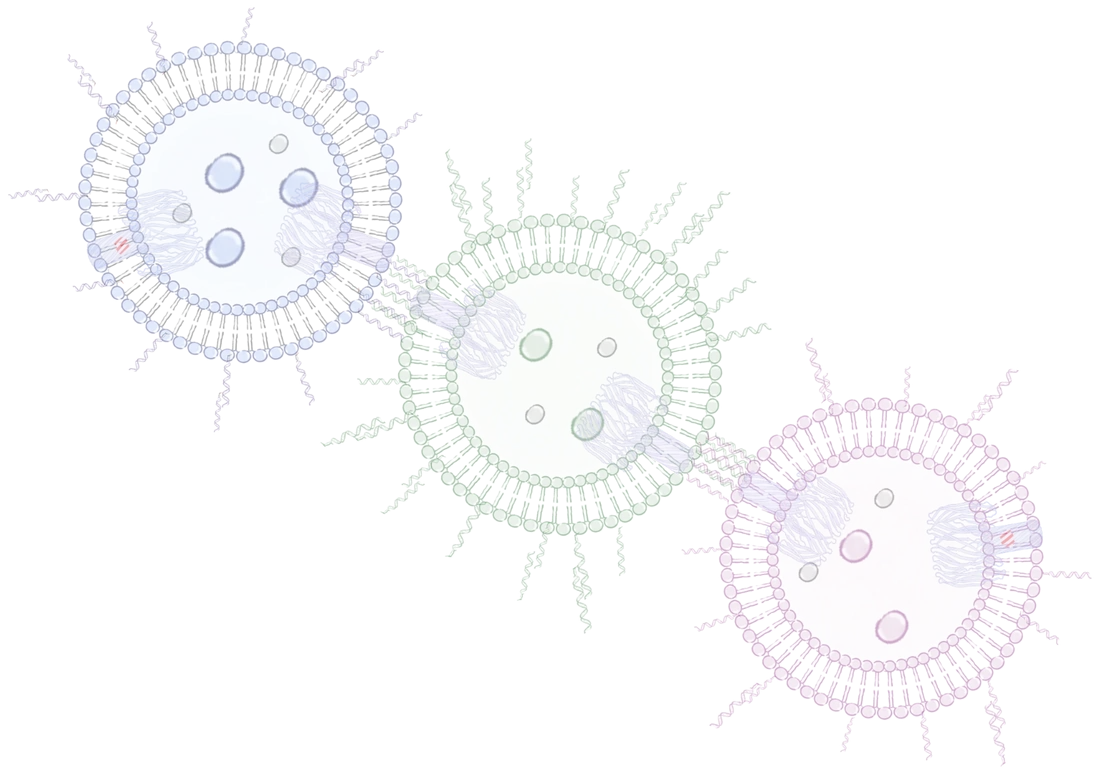
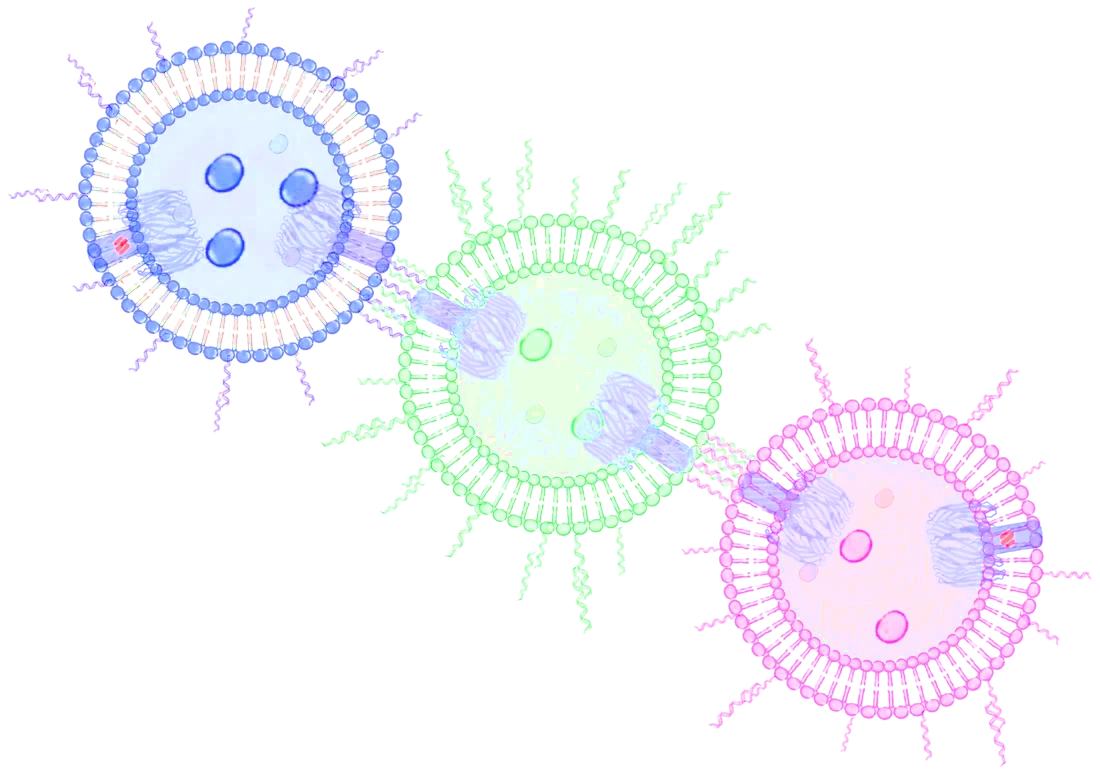
Home: 帯の絵の色を、鮮やかに（青・緑・ピンクのGUVが、暗い帯の上で見分けやすい）

diff --git a/style.css b/style.css
@@ -224,7 +224,7 @@ a.search-result-item:hover {
     right: -4%;
     height: 150%;
     width: auto;
-    opacity: 0.95;
+    opacity: 1;
     pointer-events: none;
     user-select: none;
     -webkit-user-select: none;
